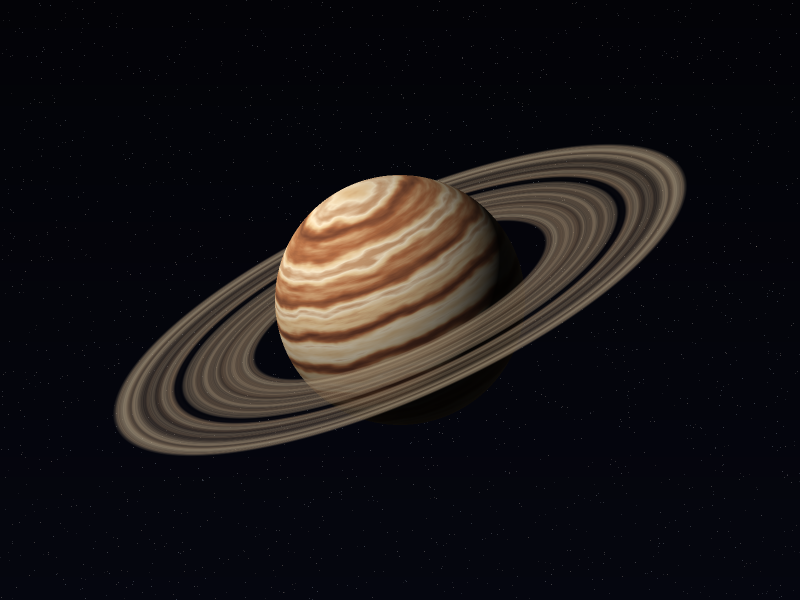
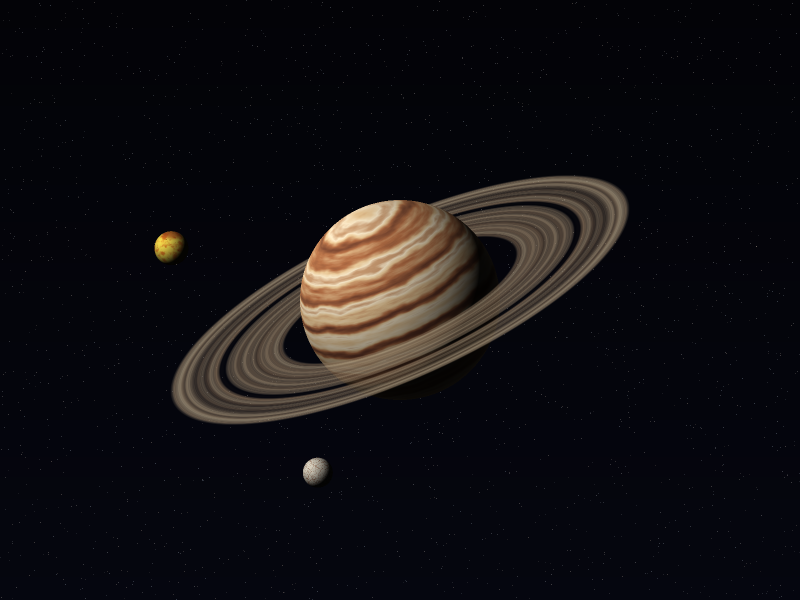
Agujero negro, satélites artificiales y lunas del gaseoso

Changed region(s): [[0.125, 0.24, 0.875, 0.81], [0.1875, 0.39, 0.25, 0.45]]

diff --git a/src/main.rs b/src/main.rs
@@ -15,7 +15,7 @@ use shaders::{Frag, Shader};
 const WIDTH: usize = 800;
 const HEIGHT: usize = 600;
 const SUPERSAMPLE: usize = 2;
-const SYSTEM_ZOOM: f32 = 30.0;
+const SYSTEM_ZOOM: f32 = 25.0;
 const SYSTEM_PITCH: f32 = -0.6;
 
 #[derive(Clone, Copy)]
@@ -23,6 +23,7 @@ enum MeshKind {
     Sphere,
     Ring,
     Quad,
+    Satellite,
 }
 
 /// Una pieza renderizable: malla + shader + su transformación (escala, inclinación, giro, órbita).
@@ -34,8 +35,8 @@ struct Part {
     tilt: f32,
     /// Velocidad de giro propio (rad/s).
     spin: f32,
-    /// (distancia, velocidad angular, inclinación de la órbita) respecto al planeta.
-    orbit: Option<(f32, f32, f32)>,
+    /// (distancia, velocidad angular, inclinación de la órbita, fase inicial) respecto al planeta.
+    orbit: Option<(f32, f32, f32, f32)>,
     /// Los billboards siempre miran a la cámara (no heredan inclinación ni rotación de vista).
     billboard: bool,
     /// Inclinación del eje del planeta, para la sombra de sus anillos.
@@ -73,18 +74,31 @@ fn bodies() -> Vec<Body> {
                 Part { spin: 0.25, tilt: 0.41, ..part(MeshKind::Sphere, Shader::Earth, 1.0) },
                 Part {
                     spin: 0.1,
-                    orbit: Some((2.5, 0.35, 0.18)),
+                    orbit: Some((2.5, 0.35, 0.18, 1.94)),
                     ..part(MeshKind::Sphere, Shader::Moon, 0.27)
+                },
+                // Satélites artificiales: uno en órbita baja inclinada y otro casi polar y retrógrado.
+                Part {
+                    spin: 0.9,
+                    orbit: Some((1.55, 1.1, 0.8, 0.5)),
+                    ..part(MeshKind::Satellite, Shader::Satellite, 0.13)
+                },
+                Part {
+                    spin: -0.7,
+                    orbit: Some((1.9, -0.8, 1.45, 3.0)),
+                    ..part(MeshKind::Satellite, Shader::Satellite, 0.11)
                 },
             ],
         },
         Body {
-            name: "Gigante gaseoso con anillos",
+            name: "Gigante gaseoso con anillos y lunas",
             file: "gaseoso",
-            zoom: 125.0,
+            zoom: 100.0,
             parts: vec![
                 Part { spin: 0.3, tilt: 0.4, axis_tilt: 0.4, ..part(MeshKind::Sphere, Shader::Gas, 1.0) },
                 Part { tilt: 0.4, axis_tilt: 0.4, ..part(MeshKind::Ring, Shader::GasRing, 2.5) },
+                Part { spin: 0.2, orbit: Some((3.1, 0.5, 0.1, 0.4)), ..part(MeshKind::Sphere, Shader::Io, 0.17) },
+                Part { spin: 0.1, orbit: Some((3.9, 0.3, -0.12, 3.3)), ..part(MeshKind::Sphere, Shader::Europa, 0.15) },
             ],
         },
         Body {
@@ -102,6 +116,16 @@ fn bodies() -> Vec<Body> {
                 Part { tilt: 1.35, axis_tilt: 1.35, ..part(MeshKind::Ring, Shader::IceRing, 2.2) },
             ],
         },
+        Body {
+            name: "Agujero negro",
+            file: "agujero",
+            zoom: 80.0,
+            parts: vec![
+                Part { billboard: true, ..part(MeshKind::Quad, Shader::BhHalo, 3.0) },
+                part(MeshKind::Sphere, Shader::BlackHole, 1.0),
+                Part { tilt: 0.22, axis_tilt: 0.22, ..part(MeshKind::Ring, Shader::BhDisk, 3.8) },
+            ],
+        },
     ]
 }
 
@@ -109,6 +133,7 @@ struct Meshes {
     sphere: Mesh,
     ring: Mesh,
     quad: Mesh,
+    satellite: Mesh,
 }
 
 impl Meshes {
@@ -117,6 +142,7 @@ impl Meshes {
             MeshKind::Sphere => &self.sphere,
             MeshKind::Ring => &self.ring,
             MeshKind::Quad => &self.quad,
+            MeshKind::Satellite => &self.satellite,
         }
     }
 }
@@ -152,7 +178,7 @@ fn render(fb: &mut Framebuffer, meshes: &Meshes, body: &Body, pl: &Placement, t:
         let spin = part.spin * t;
         let scale = part.scale * pl.size;
         let offset = match part.orbit {
-            Some((dist, speed, incl)) => Vec3::new((speed * t + 1.94).cos(), 0.0, (speed * t + 1.94).sin())
+            Some((dist, speed, incl, phase)) => Vec3::new((speed * t + phase).cos(), 0.0, (speed * t + phase).sin())
                 .rot_x(incl)
                 * (dist * pl.size),
             None => Vec3::ZERO,
@@ -197,12 +223,13 @@ fn render(fb: &mut Framebuffer, meshes: &Meshes, body: &Body, pl: &Placement, t:
 }
 
 /// Órbita de cada cuerpo en el sistema: (índice en `bodies`, tamaño, distancia, velocidad angular, fase).
-const SYSTEM: [(usize, f32, f32, f32, f32); 5] = [
+const SYSTEM: [(usize, f32, f32, f32, f32); 6] = [
     (0, 1.7, 0.0, 0.0, 0.0),   // estrella
     (3, 0.36, 3.4, 0.50, 0.7), // lava
     (1, 0.50, 5.2, 0.30, 2.4), // rocoso + luna
     (2, 1.00, 8.6, 0.15, 3.2), // gaseoso + anillos
     (4, 0.75, 11.8, 0.09, 5.6), // hielo + anillos
+    (5, 0.30, 14.6, 0.05, 1.2), // agujero negro
 ];
 
 fn system_center(dist: f32, speed: f32, phase: f32, t: f32) -> Vec3 {
@@ -273,7 +300,9 @@ fn focus_zoom(focus: usize) -> f32 {
     if focus == 0 {
         1.0
     } else {
-        110.0 / (SYSTEM_ZOOM * SYSTEM[focus].1)
+        // El agujero negro tiene un disco enorme respecto a su horizonte: se encuadra más lejos.
+        let radius_px = if SYSTEM[focus].0 == 5 { 45.0 } else { 110.0 };
+        radius_px / (SYSTEM_ZOOM * SYSTEM[focus].1)
     }
 }
 
@@ -307,7 +336,7 @@ fn default_pitch(bodies: &[Body], view: usize) -> f32 {
 
 fn main() {
     let args: Vec<String> = std::env::args().collect();
-    let meshes = Meshes { sphere: mesh::sphere(64, 128), ring: mesh::annulus(180), quad: mesh::quad() };
+    let meshes = Meshes { sphere: mesh::sphere(64, 128), ring: mesh::annulus(180), quad: mesh::quad(), satellite: mesh::satellite() };
     let bodies = bodies();
     let views = bodies.len() + 1;
 
@@ -331,7 +360,7 @@ fn main() {
     let mut current = bodies.len();
     let (mut yaw, mut pitch) = (0.0_f32, default_pitch(&bodies, current));
     let (mut t, mut paused, mut zoom, mut focus) = (0.0_f32, false, 1.0_f32, 0usize);
-    let keys = [Key::Key1, Key::Key2, Key::Key3, Key::Key4, Key::Key5, Key::Key6];
+    let keys = [Key::Key1, Key::Key2, Key::Key3, Key::Key4, Key::Key5, Key::Key6, Key::Key7];
     window.set_title(&title(&bodies, current, focus));
 
     while window.is_open() && !window.is_key_down(Key::Escape) {

diff --git a/src/shaders.rs b/src/shaders.rs
@@ -13,6 +13,12 @@ pub enum Shader {
     Lava,
     Ice,
     IceRing,
+    Satellite,
+    Io,
+    Europa,
+    BlackHole,
+    BhHalo,
+    BhDisk,
 }
 
 /// Datos interpolados que recibe cada shader de fragmento.
@@ -46,6 +52,12 @@ pub fn shade(s: Shader, f: &Frag) -> Option<[f32; 4]> {
         Shader::Lava => lava(f),
         Shader::Ice => ice_giant(f),
         Shader::IceRing => ice_ring(f),
+        Shader::Satellite => satellite(f),
+        Shader::Io => io(f),
+        Shader::Europa => europa(f),
+        Shader::BlackHole => black_hole(f),
+        Shader::BhHalo => bh_halo(f),
+        Shader::BhDisk => bh_disk(f),
     }
 }
 
@@ -423,4 +435,104 @@ fn ice_ring(f: &Frag) -> Option<[f32; 4]> {
     let grain = 0.7 + 0.3 * noise(Vec3::new(u * 150.0, 2.0, 0.0));
     let bright = 0.35 + 0.65 * f.n.dot(f.light).abs();
     out(c3(0.70, 0.86, 0.90) * bright, d * 0.5 * grain)
+}
+
+// ---------- satélites y lunas ----------
+
+fn satellite(f: &Frag) -> Option<[f32; 4]> {
+    let p = f.p;
+    let diff = f.n.dot(f.light).abs();
+    // Los paneles son las piezas planas de los lados; el resto es el cuerpo.
+    if p.x.abs() > 0.4 && p.y.abs() < 0.01 {
+        // Celdas solares: rejilla clara sobre azul oscuro, con destello especular.
+        let (gx, gz) = ((p.x.abs() * 7.0).fract(), ((p.z + 0.45) * 7.0).fract());
+        let line = smoothstep(0.06, 0.0, gx.min(gz)) + smoothstep(0.94, 1.0, gx.max(gz));
+        let cell = c3(0.04, 0.09, 0.28).mix(c3(0.10, 0.22, 0.55), diff);
+        let col = cell.mix(c3(0.75, 0.8, 0.9), line.min(1.0) * 0.6) * (0.25 + 0.9 * diff);
+        return out(col + c3(0.7, 0.8, 1.0) * diff.powi(8) * 0.4, 1.0);
+    }
+    // Cuerpo con aislante dorado arrugado.
+    let wrinkle = noise(p * 40.0);
+    let gold = c3(0.85, 0.62, 0.20).mix(c3(0.55, 0.38, 0.10), wrinkle);
+    out(gold * (0.12 + 0.95 * f.n.dot(f.light).max(0.0)), 1.0)
+}
+
+fn io(f: &Frag) -> Option<[f32; 4]> {
+    let p = f.p;
+    // Capa 1: azufre amarillo con manchas naranjas y polos rojizos.
+    let n = fbm(p * 4.0 + Vec3::new(3.0, 1.0, 8.0), 4);
+    let mut col = c3(0.95, 0.85, 0.30).mix(c3(0.85, 0.48, 0.14), smoothstep(0.4, 0.7, n));
+    col = col.mix(c3(0.65, 0.25, 0.10), smoothstep(0.7, 0.95, p.y.abs()) * 0.7);
+    // Capa 2: volcanes (celdas pequeñas) oscuros con halo de ceniza.
+    let (d, _, id) = worley(p * 6.0);
+    if id > 0.55 {
+        col = col.mix(c3(0.60, 0.25, 0.08), smoothstep(0.30, 0.1, d) * 0.7);
+        col = col.mix(c3(0.08, 0.03, 0.02), smoothstep(0.07, 0.03, d));
+    }
+    out(col * (0.02 + diffuse(f)), 1.0)
+}
+
+fn europa(f: &Frag) -> Option<[f32; 4]> {
+    let p = f.p;
+    // Capa 1: hielo crema con variaciones.
+    let mut col = c3(0.88, 0.85, 0.78) * (0.85 + 0.2 * fbm(p * 6.0, 3));
+    // Capa 2: red de grietas rojizas (distancia entre celdas de Worley, con warp).
+    let w = noise(p * 5.0) * 0.5;
+    let (f1, f2, _) = worley(p * 3.5 + Vec3::new(w, w, w));
+    col = col.mix(c3(0.50, 0.28, 0.18), smoothstep(0.07, 0.0, f2 - f1) * 0.85);
+    out(col * (0.02 + diffuse(f)), 1.0)
+}
+
+// ---------- agujero negro ----------
+
+fn black_hole(f: &Frag) -> Option<[f32; 4]> {
+    // Horizonte de sucesos: negro absoluto con un anillo de fotones muy fino en el borde.
+    let edge = (1.0 - facing(f)).powi(10);
+    out(c3(1.0, 0.82, 0.55) * edge * 0.9, 1.0)
+}
+
+fn bh_halo(f: &Frag) -> Option<[f32; 4]> {
+    // Resplandor y anillo de fotones: luz del disco desviada alrededor del horizonte (lente gravitacional).
+    // El quad mide 3 radios del horizonte de semiancho.
+    let r = (f.p.x * f.p.x + f.p.y * f.p.y).sqrt() * 3.0;
+    if r < 1.0 {
+        return None;
+    }
+    let a = f.p.y.atan2(f.p.x);
+    // La imagen lente del disco se concentra arriba y abajo del horizonte.
+    let polar = 0.55 + 0.75 * a.sin().abs();
+    let swirl = 0.75 + 0.5 * noise(Vec3::new(a.cos() * 2.5 + f.t * 0.3, a.sin() * 2.5, r * 3.0));
+    let glow = (-(r - 1.0) * 2.6).exp() * polar * swirl;
+    let ring = (-((r - 1.07) / 0.035).powi(2)).exp() * 1.4;
+    let col = c3(1.0, 0.45, 0.08).mix(c3(1.0, 0.92, 0.7), (-(r - 1.0) * 5.0).exp());
+    out(col, (glow * 0.8 + ring).clamp(0.0, 1.0) * smoothstep(3.0, 2.2, r))
+}
+
+fn bh_disk(f: &Frag) -> Option<[f32; 4]> {
+    let r = (f.p.x * f.p.x + f.p.z * f.p.z).sqrt();
+    let u = (r - 0.5) * 2.0; // 0 = borde interior, 1 = exterior
+    // Rotación diferencial: lo interno gira más rápido; las vetas se estiran en azimut.
+    let a = f.p.z.atan2(f.p.x) - f.t * 1.6 / (0.25 + u);
+    let streak = fbm(Vec3::new(u * 16.0, a.cos() * 1.3, a.sin() * 1.3), 4);
+    let fine = noise(Vec3::new(u * 60.0, a.cos() * 4.0, a.sin() * 4.0));
+    let heat = ((1.0 - u).powf(1.4) * (0.55 + 0.9 * streak) + (fine - 0.5) * 0.15).clamp(0.0, 1.0);
+    let mut col = ramp(
+        &[
+            (0.0, c3(0.30, 0.04, 0.0)),
+            (0.35, c3(0.95, 0.30, 0.04)),
+            (0.7, c3(1.0, 0.65, 0.2)),
+            (1.0, c3(1.0, 0.97, 0.85)),
+        ],
+        heat,
+    );
+    // Efecto Doppler: el lado que se acerca a la cámara brilla más y se vuelve más azul/blanco.
+    let v = Vec3::new(
+        f.axis.y * f.w.z - f.axis.z * f.w.y,
+        f.axis.z * f.w.x - f.axis.x * f.w.z,
+        f.axis.x * f.w.y - f.axis.y * f.w.x,
+    );
+    let approach = (-v.z / v.length().max(1e-4)).clamp(-1.0, 1.0);
+    col = col * (1.0 + 0.9 * approach) + c3(0.2, 0.25, 0.4) * approach.max(0.0) * heat;
+    let alpha = smoothstep(0.0, 0.06, u) * smoothstep(1.0, 0.65, u) * (0.35 + 0.65 * heat.sqrt());
+    out(col * 1.15, alpha.clamp(0.0, 1.0))
 }

diff --git a/src/mesh.rs b/src/mesh.rs
@@ -63,3 +63,36 @@ pub fn quad() -> Mesh {
         spherical: false,
     }
 }
+
+/// Satélite artificial: cuerpo cúbico + dos paneles solares planos (una sola malla).
+pub fn satellite() -> Mesh {
+    let mut m = Mesh { pos: Vec::new(), nrm: Vec::new(), tris: Vec::new(), spherical: false };
+    let add_quad = |m: &mut Mesh, q: [Vec3; 4], n: Vec3| {
+        let base = m.pos.len();
+        for v in q {
+            m.pos.push(v);
+            m.nrm.push(n);
+        }
+        m.tris.push([base, base + 1, base + 2]);
+        m.tris.push([base, base + 2, base + 3]);
+    };
+    let h = 0.3;
+    let v = |x: f32, y: f32, z: f32| Vec3::new(x * h, y * h, z * h);
+    // Seis caras del cubo.
+    add_quad(&mut m, [v(1., -1., -1.), v(1., 1., -1.), v(1., 1., 1.), v(1., -1., 1.)], Vec3::new(1., 0., 0.));
+    add_quad(&mut m, [v(-1., -1., 1.), v(-1., 1., 1.), v(-1., 1., -1.), v(-1., -1., -1.)], Vec3::new(-1., 0., 0.));
+    add_quad(&mut m, [v(-1., 1., -1.), v(-1., 1., 1.), v(1., 1., 1.), v(1., 1., -1.)], Vec3::new(0., 1., 0.));
+    add_quad(&mut m, [v(-1., -1., 1.), v(-1., -1., -1.), v(1., -1., -1.), v(1., -1., 1.)], Vec3::new(0., -1., 0.));
+    add_quad(&mut m, [v(-1., -1., 1.), v(1., -1., 1.), v(1., 1., 1.), v(-1., 1., 1.)], Vec3::new(0., 0., 1.));
+    add_quad(&mut m, [v(1., -1., -1.), v(-1., -1., -1.), v(-1., 1., -1.), v(1., 1., -1.)], Vec3::new(0., 0., -1.));
+    // Paneles solares a los lados (planos en XZ).
+    for s in [1.0_f32, -1.0] {
+        let (x0, x1) = (s * 0.45, s * 1.6);
+        add_quad(
+            &mut m,
+            [Vec3::new(x0, 0., -0.45), Vec3::new(x1, 0., -0.45), Vec3::new(x1, 0., 0.45), Vec3::new(x0, 0., 0.45)],
+            Vec3::new(0., 1., 0.),
+        );
+    }
+    m
+}

diff --git a/README.md b/README.md
@@ -9,7 +9,7 @@ cargo run --release              # ventana interactiva
 cargo run --release -- --save-all   # genera los PNG de docs/ (con supermuestreo 2x)
 ```
 
-Controles: `1`–`5` cambia de cuerpo, `6` muestra el **sistema completo** (vista inicial) · flechas rotan la cámara · rueda del ratón o `+`/`-` hacen zoom · `Tab` (en el sistema) enfoca y sigue al siguiente cuerpo: estrella → lava → rocoso → gaseoso → hielo · `R` reinicia la vista · `Espacio` pausa la animación · `S` guarda un PNG · `Esc` sale.
+Controles: `1`–`6` cambia de cuerpo, `7` muestra el **sistema completo** (vista inicial) · flechas rotan la cámara · rueda del ratón o `+`/`-` hacen zoom · `Tab` (en el sistema) enfoca y sigue al siguiente cuerpo: estrella → lava → rocoso → gaseoso → hielo → agujero negro · `R` reinicia la vista · `Espacio` pausa la animación · `S` guarda un PNG · `Esc` sale.
 
 ## Cuerpos
 
@@ -20,8 +20,9 @@ Controles: `1`–`5` cambia de cuerpo, `6` muestra el **sistema completo** (vist
 | 3 | **Gigante gaseoso + anillos** | bandas con turbulencia · vetas con rotación diferencial · gran tormenta con remolino · sombra de los anillos sobre el planeta · bruma atmosférica |
 | 4 | **Planeta de lava** (extra) | corteza de basalto · grietas de magma pulsantes (Worley) · mares de magma · humo · atmósfera incandescente |
 | 5 | **Gigante de hielo** (extra) | bandas de metano · gran mancha oscura + nube compañera · cirros · casquete polar · anillos finos; eje inclinado como Urano |
+| 6 | **Agujero negro** (extra) | horizonte negro con anillo de fotones · resplandor lenteado (más fuerte arriba y abajo) · disco de acreción con rotación diferencial y vetas · efecto Doppler (lado que se acerca más brillante) |
 
-Extras: **anillos** (malla de anillo separada, semitransparente, con división de Cassini y sombra del planeta) en el gaseoso y el de hielo; **luna** (esfera separada con cráteres de dos escalas y mares) que orbita la Tierra; **rotación y traslación** (cada planeta gira sobre su eje inclinado y la luna orbita).
+Extras: **satélites artificiales** (malla separada: cuerpo dorado y paneles solares con celdas) orbitando la Tierra; **lunas** del gaseoso (Ío con volcanes, Europa con grietas); **anillos** (malla de anillo separada, semitransparente, con división de Cassini y sombra del planeta) en el gaseoso y el de hielo; **luna** (esfera separada con cráteres de dos escalas y mares) que orbita la Tierra; **rotación y traslación** (cada planeta gira sobre su eje inclinado y la luna orbita).
 
 ## Capturas
 
@@ -30,10 +31,13 @@ La estrella al centro y los demás cuerpos orbitándola (traslación), cada uno 
 
 ![Sistema](docs/sistema.png)
 
+### Agujero negro
+![Agujero negro](docs/agujero.png)
+
 ### Estrella
 ![Estrella](docs/estrella.png)
 
-### Planeta rocoso con luna
+### Planeta rocoso con luna y satélites
 ![Planeta rocoso](docs/rocoso.png)
 
 ### Gigante gaseoso con anillos
